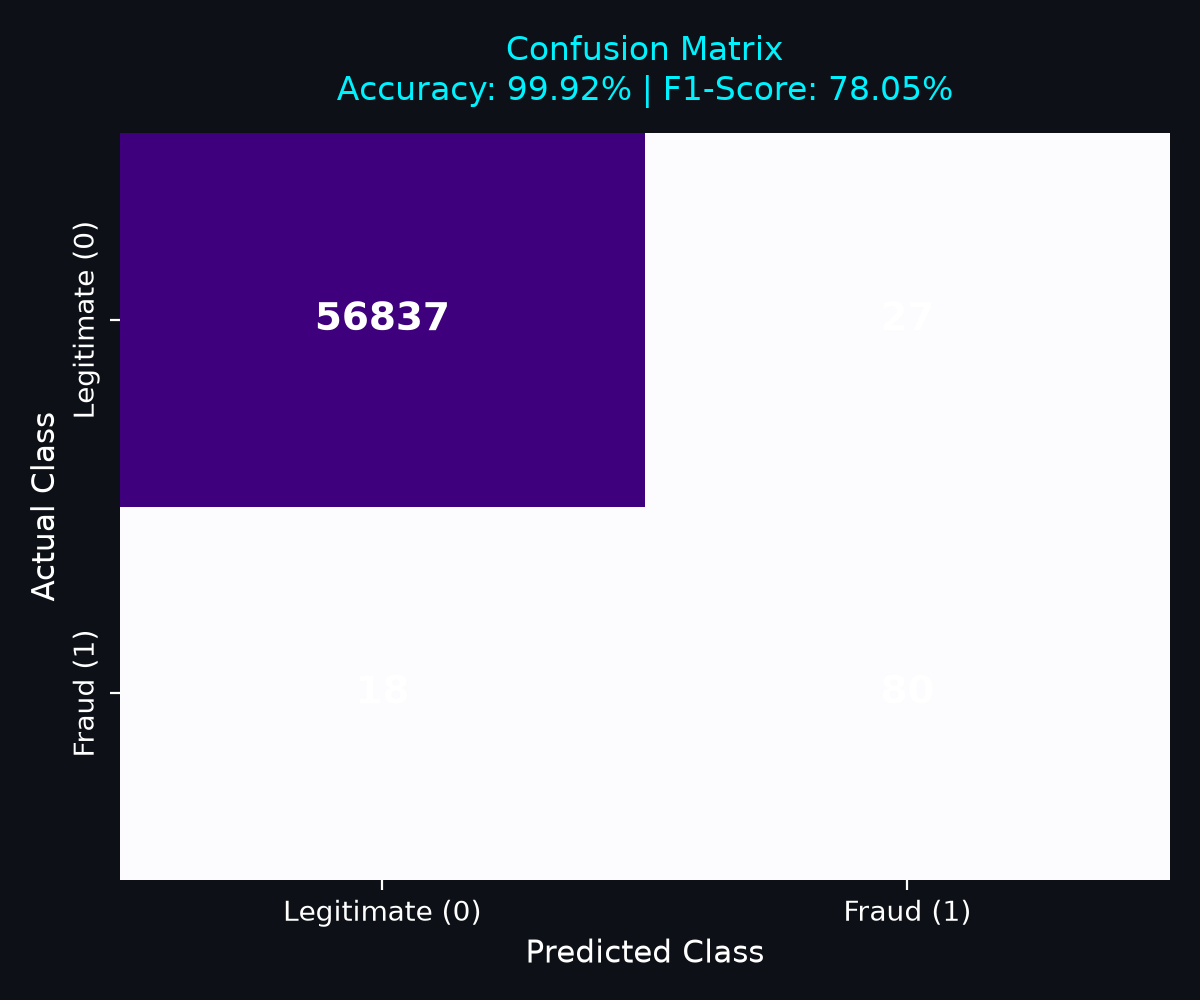
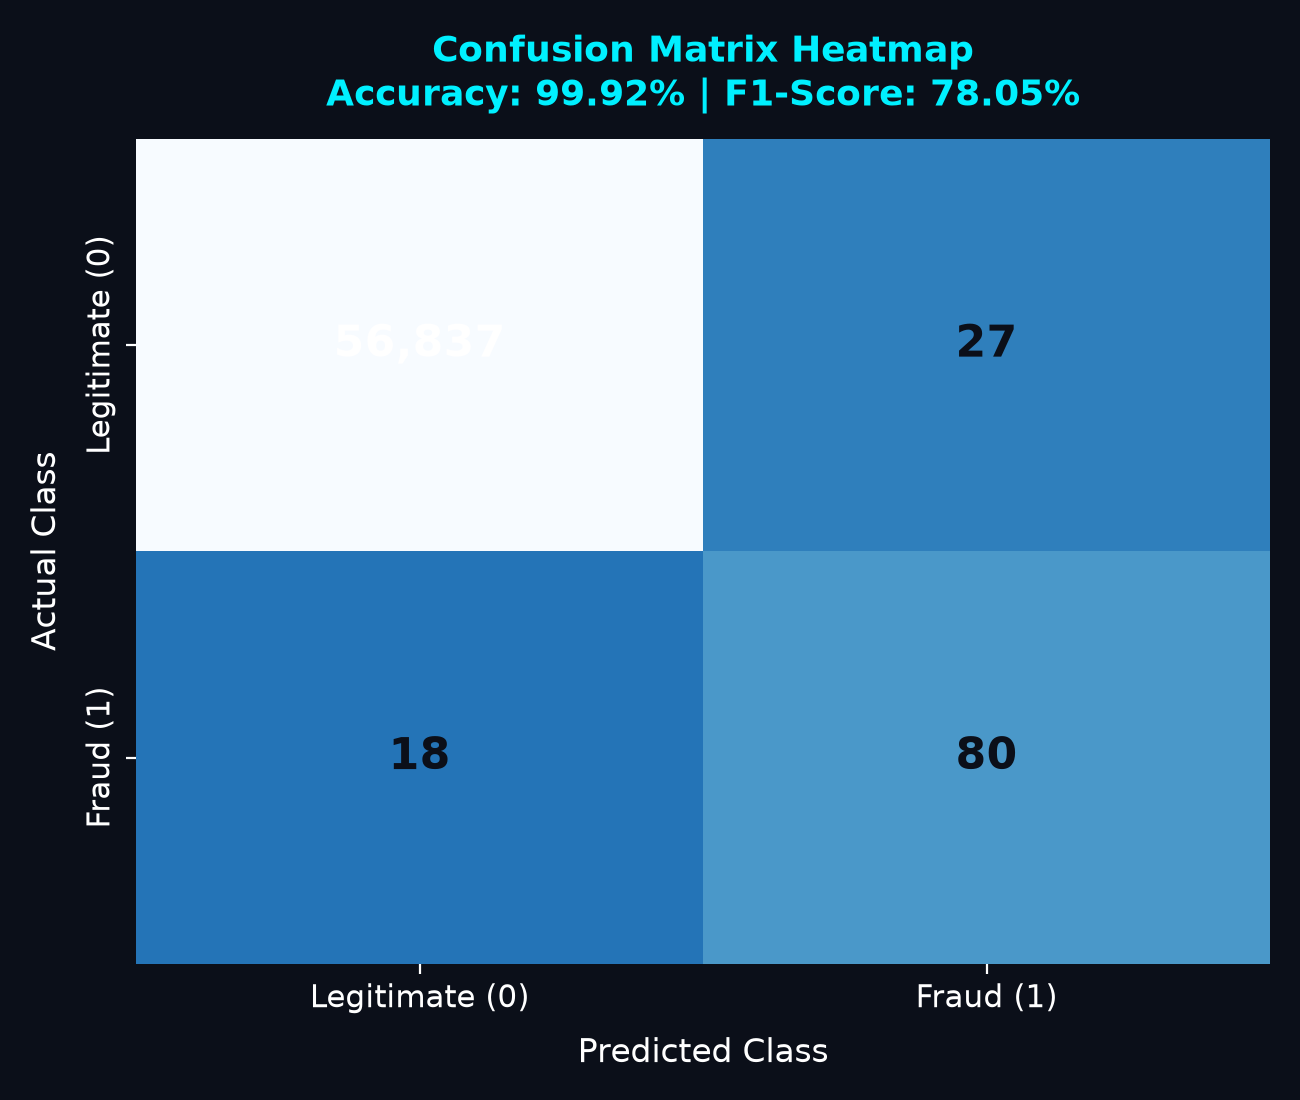
fix: fix confusion matrix text visibility in README asset

diff --git a/src/export_charts.py b/src/export_charts.py
@@ -17,20 +17,37 @@ with open(os.path.join(models_dir, 'history.json'), 'r') as f:
 plt.style.use('dark_background')
 
 # 1. Confusion Matrix
-plt.figure(figsize=(6, 5), facecolor='#0d1117')
+fig, ax = plt.subplots(figsize=(6.5, 5.5), facecolor='#0b0f19')
+ax.set_facecolor('#0b0f19')
+
 cm = np.array(metrics['confusion_matrix'])
 acc = metrics['accuracy'] * 100
 f1 = metrics['f1_score'] * 100
 
-sns.heatmap(cm, annot=True, fmt='d', cmap='Purples', cbar=False,
+# High-contrast color mapping with log/distinct norm or custom colors so all 4 cells are clearly visible
+from matplotlib.colors import LogNorm
+sns.heatmap(cm, annot=False, cmap='Blues_r', cbar=False, ax=ax,
             xticklabels=['Legitimate (0)', 'Fraud (1)'],
             yticklabels=['Legitimate (0)', 'Fraud (1)'],
-            annot_kws={'size': 14, 'weight': 'bold', 'color': 'white'})
-plt.title(f"Confusion Matrix\nAccuracy: {acc:.2f}% | F1-Score: {f1:.2f}%", color='#00f2fe', fontsize=12, pad=12)
-plt.ylabel('Actual Class', color='white', fontsize=11)
-plt.xlabel('Predicted Class', color='white', fontsize=11)
+            norm=LogNorm(vmin=1, vmax=cm.max()))
+
+# Manually write each cell value in clear, readable color based on cell position
+for i in range(2):
+    for j in range(2):
+        val = cm[i, j]
+        # Top-left cell is dark blue background -> write white text.
+        # Other cells are light/white background -> write dark navy or bright cyan text.
+        text_color = '#ffffff' if (i == 0 and j == 0) else '#0b0f19'
+        ax.text(j + 0.5, i + 0.5, f"{val:,}",
+                ha='center', va='center',
+                fontsize=16, fontweight='bold', color=text_color)
+
+ax.set_title(f"Confusion Matrix Heatmap\nAccuracy: {acc:.2f}% | F1-Score: {f1:.2f}%", color='#00f0ff', fontsize=13, pad=12, fontweight='bold')
+ax.set_ylabel('Actual Class', color='#ffffff', fontsize=12, labelpad=8)
+ax.set_xlabel('Predicted Class', color='#ffffff', fontsize=12, labelpad=8)
+ax.tick_params(colors='#ffffff', labelsize=11)
 plt.tight_layout()
-plt.savefig(os.path.join(assets_dir, 'confusion_matrix.png'), dpi=200, facecolor='#0d1117')
+plt.savefig(os.path.join(assets_dir, 'confusion_matrix.png'), dpi=200, facecolor='#0b0f19')
 plt.close()
 
 # 2. ROC Curve
